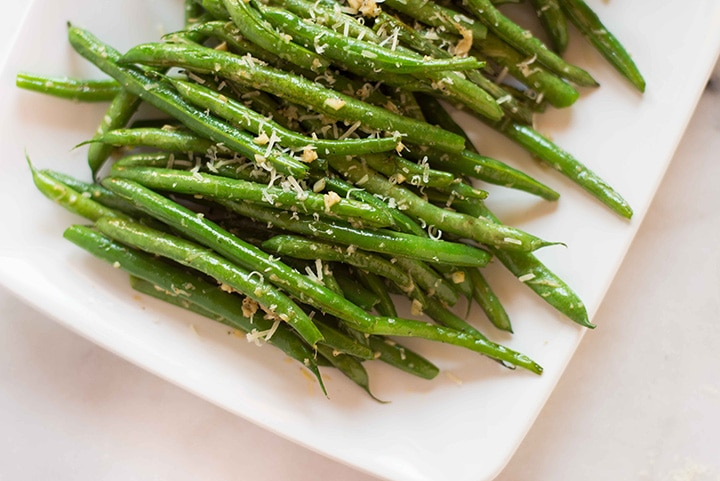
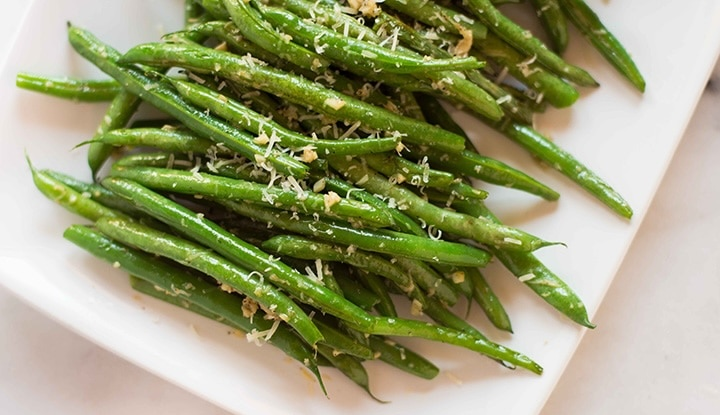
Update image display in green-bean-recipe.html

diff --git a/recipes/green-bean-recipe.html b/recipes/green-bean-recipe.html
@@ -36,7 +36,9 @@
             <article class="blog-post">
                 <h3 class="blog-title">Roasted Garlic Parmesan Green Beans: A College Kitchen Revelation</h3>
                 <p class="post-meta">Published on March 20, 2023</p>
-                <img src="../images/greenbeans.jpg" alt="Green Beans Image">
+                <br>
+                <br>
+                <img src="../images/greenbeans.jpg" alt="Green Beans Image" style="display: block; margin: 0 auto;">
                 <br>
                 <br>
                 <p>In college, my relationship with vegetables was one of indifference. They seemed like obligatory sidekicks to the main dish. However, everything changed when I moved into my first apartment and realized that if I wanted to eat healthier, I had to learn to cook.</p>
